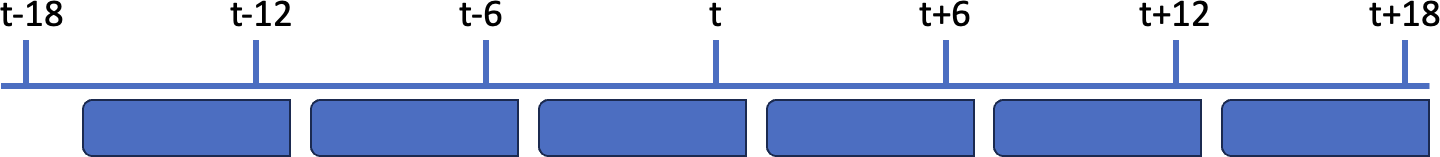
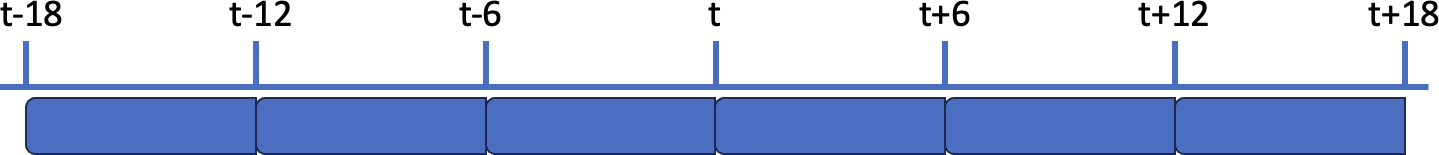
update

diff --git a/docs/layouts/tabular.rst b/docs/layouts/tabular.rst
@@ -225,7 +225,7 @@ whole dataset is covered:
 The schema below illustrates the window and frequency parameters in this
 case:
 
-.. image:: ../_static/window-3.png
+.. image:: ../_static/window-1.png
    :width: 75%
    :align: center
 
@@ -262,6 +262,6 @@ In the third example, the window width (8h) is wider than the frequency
 As illustrated in the schema below, there are overlaps between the
 windows:
 
-.. image:: ../_static/window-4.png
+.. image:: ../_static/window-3.png
    :width: 75%
    :align: center
